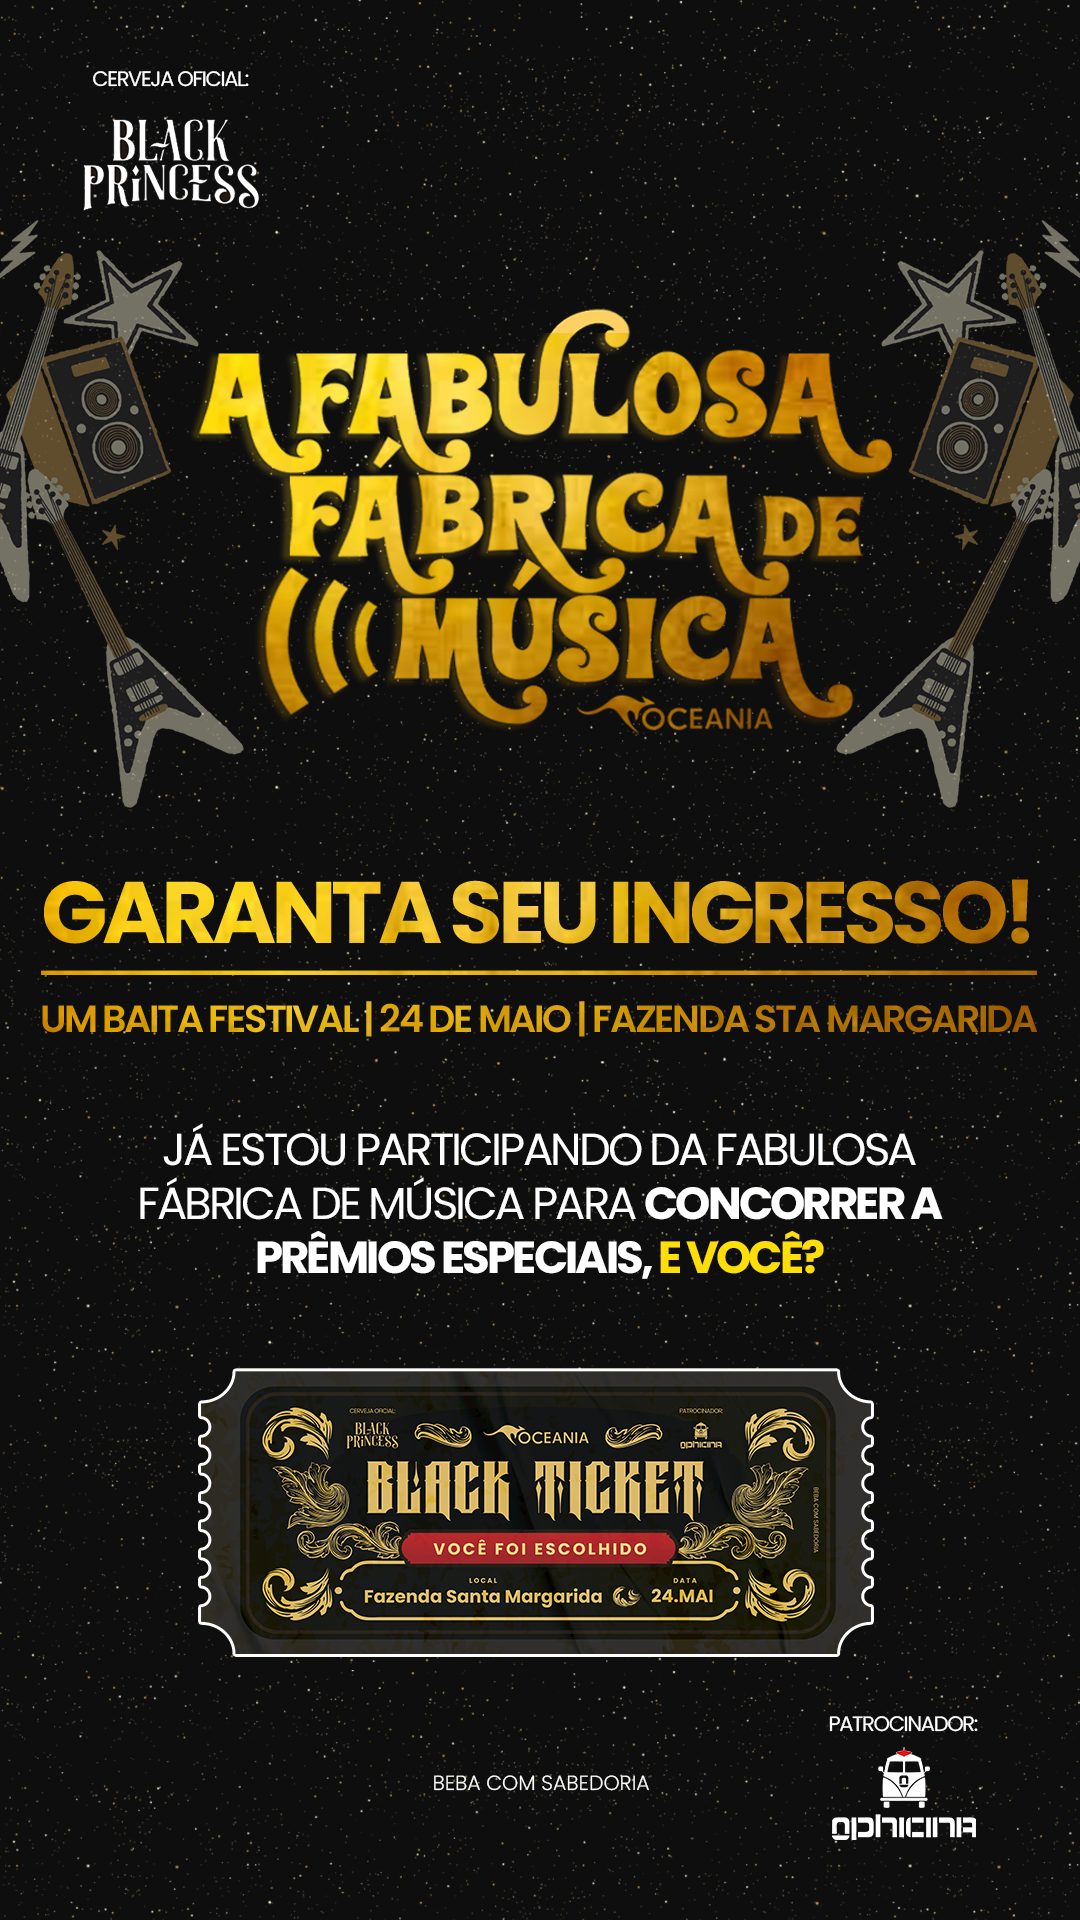
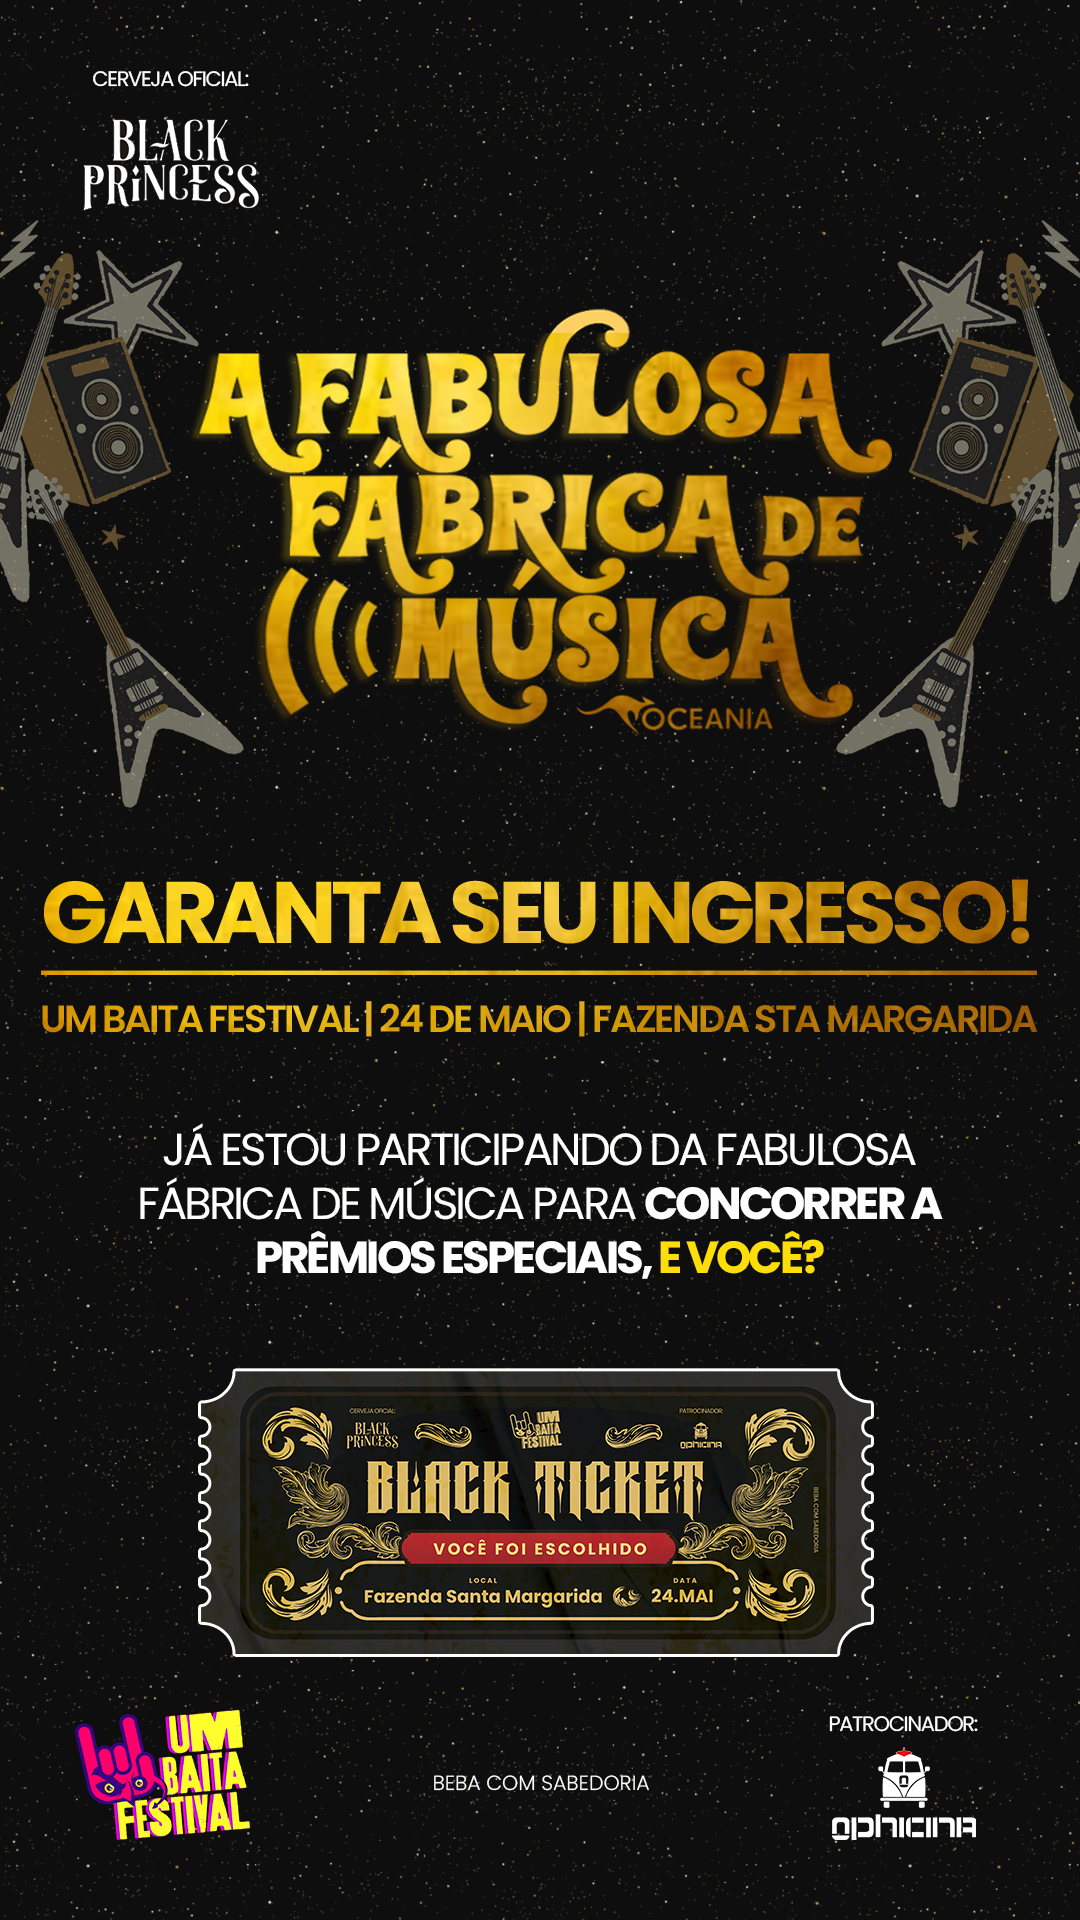
Adjusts

Changed region(s): [[0.0611, 0.875, 0.2444, 0.9688], [0.4583, 0.7188, 0.5194, 0.7812]]

diff --git a/app/cadastro/page.tsx b/app/cadastro/page.tsx
@@ -874,45 +874,59 @@ export default function SignupPage() {
         </Flex>
         <Box
           display={"flex"}
-          paddingInline={"20px"}
+          paddingInline={"0vw"}
           paddingTop={"20px"}
           mt={"10px"}
-          justifyContent={"center"}
+          justifyContent={"space-between"}
         >
           <Box
-            width={{ base: 80, md: 120 }}
+            width={{ base: "20vw", md: 120 }}
             left={{ base: 50, md: 50 }}
             top={{ base: 0, md: -160 }}
             display={{ base: "flex", md: "none" }}
             flexDirection={"column"}
-            gap={"10px"}
+            gap={"1vw"}
             alignItems={"center"}
           >
-            <Text fontSize={"12px"} color={"#fff"}>
+            <Text fontSize={"10px"} color={"#fff"}>
               CERVEJA OFICIAL:
             </Text>
             <Image
               src={"https://shorturl.at/xvMUq"}
               alt="Logo Black Princess"
-              width={{ base: "100px" }}
+              width={{ base: "100%" }}
             />
           </Box>
           <Box
-            width={{ base: 80, md: 120 }}
+            width={{ base: "20vw", md: 120 }}
             right={{ base: 0, md: 50 }}
             top={{ base: 0, md: 600 }}
             display={{ base: "flex", md: "none" }}
             flexDirection={"column"}
-            gap={"10px"}
             alignItems={"center"}
           >
-            <Text fontSize={"12px"} color={"#fff"}>
+            <Image
+              src={"https://shorturl.at/u50i4"}
+              alt="Logo Baita Festival"
+              width={{ base: "100%" }}
+            />
+          </Box>
+          <Box
+            width={{ base: "20vw", md: 120 }}
+            right={{ base: 0, md: 50 }}
+            top={{ base: 0, md: 600 }}
+            display={{ base: "flex", md: "none" }}
+            flexDirection={"column"}
+            gap={"1vw"}
+            alignItems={"center"}
+          >
+            <Text fontSize={"10px"} color={"#fff"}>
               PATROCINADOR:
             </Text>
             <Image
               src={"https://shorturl.at/knnDQ"}
               alt="Logo Ophicina"
-              width={{ base: "100px" }}
+              width={{ base: "100%" }}
             />
           </Box>
         </Box>
@@ -956,6 +970,23 @@ export default function SignupPage() {
             maxW={{ md: "10vh" }}
             w="100%"
             height={"5vh"}
+          />
+        </Box>
+
+        <Box
+          display={{ base: "none", md: "flex" }}
+          flexDirection="column"
+          alignItems="center"
+          top={{ base: "30vh", md: "33vh" }}
+          left={{ base: "20vw", md: "1vw" }}
+          position={{ base: "absolute", md: "absolute" }}
+          width={{ md: "18vh" }}
+        >
+          <Image
+            src="https://shorturl.at/u50i4"
+            alt="Logo Baita Festival"
+            maxW={{ md: "20vh" }}
+            w="60%"
           />
         </Box>
 

diff --git a/app/page.tsx b/app/page.tsx
@@ -368,7 +368,7 @@ const VerificationGate: React.FC = () => {
         >
           QUERO PARTICIPAR
         </Button>
-        <Flex gap={"5vh"} display={{ base: "flex", md: "none" }}>
+        <Box gap={"2vw"} display={{ base: "flex", md: "none" }}>
           <Box
             display="flex"
             flexDirection="column"
@@ -384,9 +384,25 @@ const VerificationGate: React.FC = () => {
             <Image
               src="https://shorturl.at/xvMUq"
               alt="Logo Black Princess"
-              maxW={{ base: "9vh" }}
+              maxW={{ base: "11vh" }}
               w={"100%"}
-              height={"4.5vh"}
+            />
+          </Box>
+
+          <Box
+            display="flex"
+            flexDirection="column"
+            alignItems="center"
+            top={{ base: "28vh", md: "90vh" }}
+            right={{ base: "20vw", md: "3vw" }}
+            position={{ md: "absolute" }}
+            gap={"0.7vh"}
+          >
+            <Image
+              src="https://shorturl.at/u50i4"
+              alt="Logo Baita Festival"
+              maxW={{ base: "15vh" }}
+              w="80%"
             />
           </Box>
 
@@ -407,10 +423,9 @@ const VerificationGate: React.FC = () => {
               alt="Logo Ophicina"
               maxW={{ base: "15vh" }}
               w="75%"
-              height={"5vh"}
             />
           </Box>
-        </Flex>
+        </Box>
       </Flex>
       <Flex gap={"50px"} display={{ base: "none", md: "flex" }}>
         <Box
@@ -432,6 +447,23 @@ const VerificationGate: React.FC = () => {
             w={"100%"}
             height={"5vh"}
             maxW={{ md: "10vh" }}
+          />
+        </Box>
+
+        <Box
+          display="flex"
+          flexDirection="column"
+          alignItems="center"
+          top={{ base: "28vh", md: "88vh" }}
+          left={{ base: "20vw", md: "1vw" }}
+          position={{ md: "absolute" }}
+          width={{ md: "18vh" }}
+        >
+          <Image
+            src="https://shorturl.at/u50i4"
+            alt="Logo Baita Festival"
+            maxW={{ md: "20vh" }}
+            w="60%"
           />
         </Box>
 
